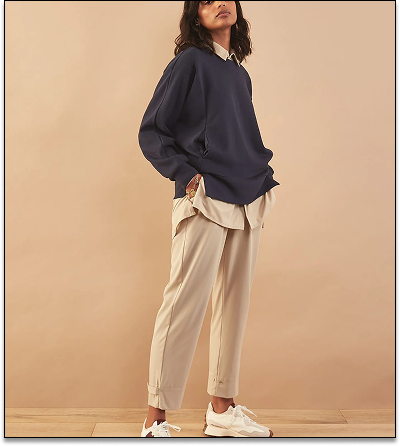
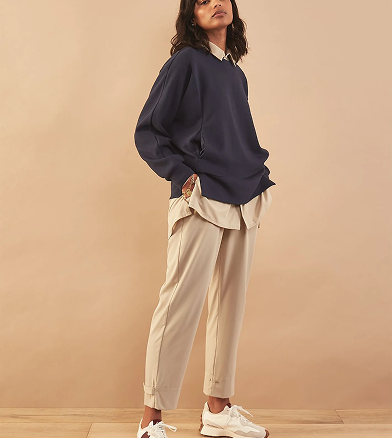
wip: building reusable components

diff --git a/src/components/cloth-card.tsx b/src/components/cloth-card.tsx
@@ -1,0 +1,98 @@
+import React from "react";
+import styled from "styled-components";
+import heart from "@/assets/icons/heart.png";
+import heartFilled from "@/assets/icons/heart-red.png";
+
+interface ClothCardProps {
+  title: string;
+  description: string;
+  price: number;
+  image: string;
+  liked: boolean;
+  onToggleLike: () => void;
+}
+
+const ClothCard: React.FC<ClothCardProps> = ({
+  title,
+  description,
+  price,
+  image,
+  liked,
+  onToggleLike,
+}) => {
+  return (
+    <Wrapper>
+      <div
+        className="top"
+        style={{
+          backgroundImage: `url(${image})`,
+          backgroundRepeat: "no-repeat",
+          backgroundSize: "cover",
+        }}
+      >
+        <img
+          src={liked ? heartFilled : heart}
+          alt="heart-image"
+          onClick={onToggleLike}
+        />
+      </div>
+      <div className="details">
+        <p>{title}</p>
+        <div className="inner-detail">
+          <p>{description}</p>
+          <h5>${price}</h5>
+        </div>
+      </div>
+    </Wrapper>
+  );
+};
+
+export default ClothCard;
+
+const Wrapper = styled.div`
+  height: 100%;
+  width: 24.5rem;
+  display: flex;
+  flex-direction: column;
+  gap: 0.5rem;
+
+  .top {
+    height: 27.38rem;
+    position: relative;
+
+    img {
+      position: absolute;
+      top: 10px;
+      right: 10px;
+      cursor: pointer;
+    }
+  }
+
+  .details {
+    display: flex;
+    flex-direction: column;
+    gap: 0.5rem;
+
+    & > p {
+      font-weight: 700;
+      font-size: 1.125rem;
+      text-transform: capitalize;
+    }
+
+    .inner-detail {
+      display: flex;
+      align-items: center;
+      justify-content: space-between;
+
+      p {
+        font-weight: 400;
+        font-size: 1rem;
+        text-transform: capitalize;
+      }
+
+      h5 {
+        font-size: 1.05rem;
+      }
+    }
+  }
+`;

diff --git a/src/App.tsx b/src/App.tsx
@@ -1,36 +1,12 @@
-import { useState } from 'react'
-import reactLogo from './assets/react.svg'
-import viteLogo from '/vite.svg'
-import './App.css'
+import collOne from "@/assets/images/coll-one.png"
+import CollectionCard from "./components/collection-card";
 
-
-function App() {
-  const [count, setCount] = useState(0)
+export default function App() {
+ 
 
   return (
-    <>
-      <div>
-        <a href="https://vite.dev" target="_blank">
-          <img src={viteLogo} className="logo" alt="Vite logo" />
-        </a>
-        <a href="https://react.dev" target="_blank">
-          <img src={reactLogo} className="logo react" alt="React logo" />
-        </a>
-      </div>
-      <h1>Vite + React</h1>
-      <div className="card">
-        <button onClick={() => setCount((count) => count + 1)}>
-          count is {count}
-        </button>
-        <p>
-          Edit <code>src/App.tsx</code> and save to test HMR
-        </p>
-      </div>
-      <p className="read-the-docs">
-        Click on the Vite and React logos to learn more
-      </p>
-    </>
-  )
+    <div>
+      <CollectionCard image={collOne} text="dresses" bottom={10}  />
+    </div>
+  );
 }
-
-export default App

diff --git a/src/components/collection-card.tsx b/src/components/collection-card.tsx
@@ -1,0 +1,50 @@
+import React from "react";
+import styled from "styled-components";
+
+interface CollectionCardProps {
+  image: string;
+  text: string;
+  top?: string | number;
+  bottom?: string | number;
+  right?: string | number;
+  left?: string | number;
+}
+
+const CollectionCard: React.FC<CollectionCardProps> = ({
+  image,
+  text,
+  top,
+  right,
+  left,
+  bottom,
+}) => {
+  return (
+    <Wrapper
+      style={{
+        backgroundImage: `url(${image})`,
+        backgroundRepeat: "no-repeat",
+        backgroundSize: "cover",
+      }}
+    >
+      <div
+        style={{
+          position: "absolute",
+          top: `${top}px`,
+          bottom: `${bottom}px`,
+          left: `${left}px`,
+          right: `${right}px`,
+        }}
+      >
+        {text}
+      </div>
+    </Wrapper>
+  );
+};
+
+export default CollectionCard;
+
+const Wrapper = styled.div`
+    height: 100px;
+    width: 100px;
+    position: relative;
+`;

diff --git a/src/components/button.tsx b/src/components/button.tsx
@@ -1,0 +1,27 @@
+import React from "react";
+import styled from "styled-components";
+import { colors } from "@/constants/colors";
+
+interface ButtonProps {
+  value: string;
+}
+
+const Button: React.FC<ButtonProps> = ({ value }) => {
+  return (
+    <Wrapper>
+      <p>{value}</p>
+    </Wrapper>
+  );
+};
+
+export default Button;
+
+const Wrapper = styled.button`
+  background: ${colors.white};
+  padding: 0.5rem 3.75rem;
+  cursor: pointer;
+  border: none;
+  font-size: 1.25rem;
+  color: ${colors.black};
+  text-transform: capitalize;
+`;

diff --git a/src/index.css b/src/index.css
@@ -4,4 +4,5 @@
   margin: 0;
   padding: 0;
   box-sizing: border-box;
+  font-family: 'Montserrat';
 }
